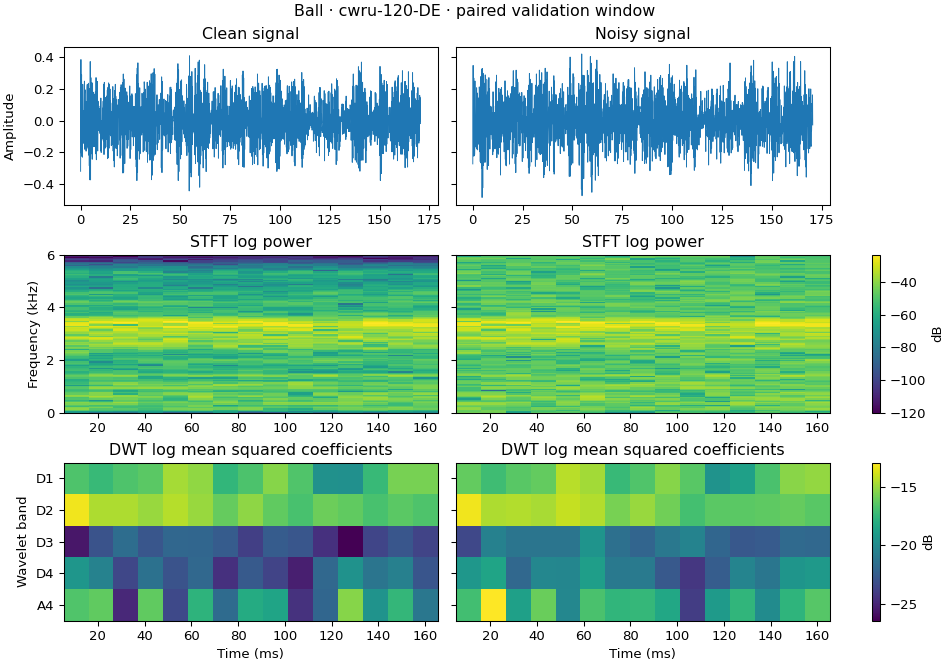
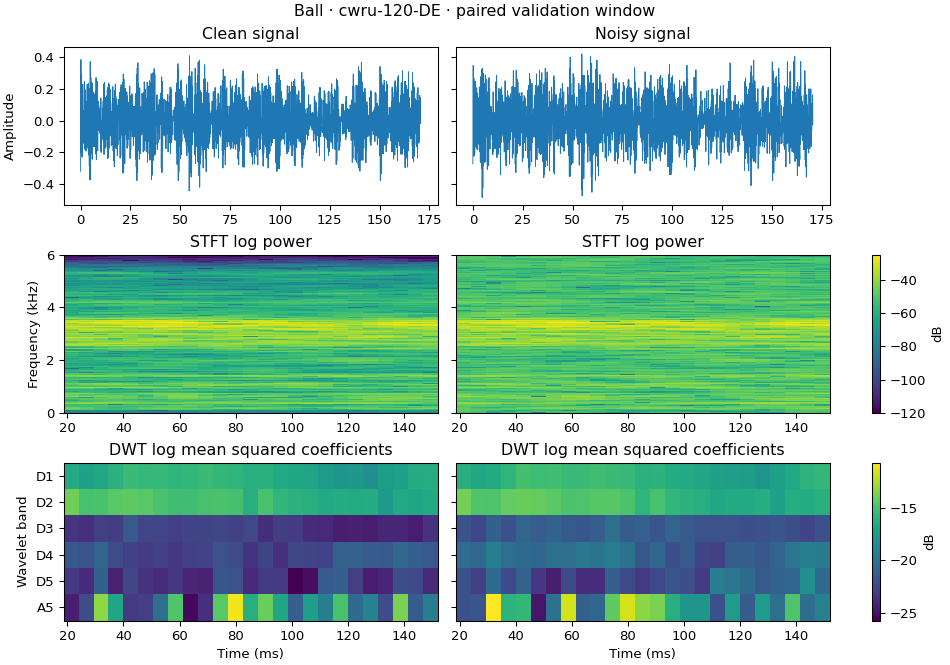
Increase STFT and DWT feature detail for the paired CNN dataset

diff --git a/tests/test_stft_dwt.py b/tests/test_stft_dwt.py
@@ -3,21 +3,30 @@ import unittest
 import numpy as np
 
 from src.stft_dwt import (
-    FRAME_SAMPLES, FREQUENCY_BINS, POWER_FLOOR, WINDOW_SAMPLES, extract_sequences,
+    FRAME_HOP, FRAME_SAMPLES, FREQUENCY_BINS, POWER_FLOOR, WINDOW_SAMPLES, extract_sequences,
 )
 
 
 class SequenceTests(unittest.TestCase):
     def test_stft_frequency_bin_and_time_axis(self):
-        bin_index = 32  # 1500 Hz at 12 kHz
+        bin_index = 64  # 1500 Hz at 12 kHz
         samples = np.arange(WINDOW_SAMPLES)
         signal = np.sin(2 * np.pi * bin_index * samples / FRAME_SAMPLES)
         features = extract_sequences(signal[None, :])
 
-        self.assertEqual(features.shape, (1, 15, 134))
+        self.assertEqual(features.shape, (1, 25, 263))
         stft = features[0, :, :FREQUENCY_BINS]
         np.testing.assert_array_equal(stft.argmax(axis=-1), bin_index)
         np.testing.assert_allclose(stft[:, bin_index], 10 * np.log10(0.25), atol=1e-5)
+
+    def test_stft_separates_two_nearby_tones(self):
+        samples = np.arange(WINDOW_SAMPLES)
+        signal = (np.sin(2 * np.pi * 64 * samples / FRAME_SAMPLES)
+                  + np.sin(2 * np.pi * 67 * samples / FRAME_SAMPLES))
+        spectrum = extract_sequences(signal[None, :])[0, 0, :FREQUENCY_BINS]
+        self.assertGreater(spectrum[64], spectrum[65])
+        self.assertGreater(spectrum[67], spectrum[66])
+        np.testing.assert_allclose(spectrum[[64, 67]], 10 * np.log10(0.25), atol=1e-5)
 
     def test_dwt_bands_and_stft_share_the_same_frame_support(self):
         signal = np.zeros((1, WINDOW_SAMPLES))
@@ -26,9 +35,9 @@ class SequenceTests(unittest.TestCase):
         floor_db = 10 * np.log10(POWER_FLOOR)
 
         self.assertAlmostEqual(features[0, 0], 0.0, places=5)
-        self.assertAlmostEqual(features[0, FREQUENCY_BINS], 10 * np.log10(16), places=5)
+        self.assertAlmostEqual(features[0, FREQUENCY_BINS], 10 * np.log10(32), places=5)
         np.testing.assert_allclose(features[0, FREQUENCY_BINS + 1:], floor_db)
-        np.testing.assert_allclose(features[2:], floor_db)
+        np.testing.assert_allclose(features[FRAME_SAMPLES // FRAME_HOP:], floor_db)
 
     def test_rejects_incorrect_window_size_and_nonfinite_samples(self):
         with self.assertRaises(ValueError):

diff --git a/src/feature_dataset.py b/src/feature_dataset.py
@@ -29,7 +29,11 @@ WINDOW_HOP = WINDOW_SAMPLES // 2
 FRAME_COUNT = 1 + (WINDOW_SAMPLES - FRAME_SAMPLES) // FRAME_HOP
 DEFAULT_SNR_DB = 10.0
 DEFAULT_NOISE_SEED = 42
-SCHEMA = "cwru-stft-dwt-paired-v1"
+SCHEMA = "cwru-stft-dwt-paired-v2"
+FEATURE_SHAPES = {
+    SCHEMA: (FRAME_COUNT, FREQUENCY_BINS, len(DWT_BANDS)),
+    "cwru-stft-dwt-paired-v1": (15, 129, 5),
+}
 
 
 def prepare_uploaded_cohort(raw_dir, output):
@@ -154,8 +158,10 @@ def load_partitions(dataset):
     if not metadata_path.is_file():
         raise FileNotFoundError(f"No complete dataset at {dataset}. Run python -m src.feature_dataset first.")
     metadata = json.loads(metadata_path.read_text())
-    if metadata.get("schema") != SCHEMA:
+    shape = FEATURE_SHAPES.get(metadata.get("schema"))
+    if shape is None:
         raise ValueError(f"Unsupported feature dataset format: {metadata_path}")
+    frame_count, stft_bins, dwt_bands = shape
 
     parts = {split: {variant: [] for variant in VARIANTS} for split in PARTITIONS}
     groups_seen, windows_seen = {}, set()
@@ -176,8 +182,8 @@ def load_partitions(dataset):
             path = folder / variant
             stft = read_array(path, "stft")
             dwt = read_array(path, "dwt")
-            if (stft.shape != (len(rows), FRAME_COUNT, FREQUENCY_BINS)
-                    or dwt.shape != (len(rows), FRAME_COUNT, len(DWT_BANDS))
+            if (stft.shape != (len(rows), frame_count, stft_bins)
+                    or dwt.shape != (len(rows), frame_count, dwt_bands)
                     or stft.dtype != np.float32 or dwt.dtype != np.float32
                     or not np.isfinite(stft).all() or not np.isfinite(dwt).all()):
                 raise ValueError(f"Invalid or misaligned feature arrays in {path}")

diff --git a/src/stft_dwt.py b/src/stft_dwt.py
@@ -7,21 +7,21 @@ from scipy.signal import stft
 
 SAMPLE_RATE = 12_000
 WINDOW_SAMPLES = 2048
-FRAME_SAMPLES = 256
-FRAME_HOP = 128
+FRAME_SAMPLES = 512
+FRAME_HOP = 64
 FREQUENCY_BINS = FRAME_SAMPLES // 2 + 1
 WAVELET = "db4"
-DWT_LEVEL = 4
+DWT_LEVEL = 5
 DWT_MODE = "symmetric"
-DWT_BANDS = ("A4", "D4", "D3", "D2", "D1")
+DWT_BANDS = ("A5", "D5", "D4", "D3", "D2", "D1")
 POWER_FLOOR = 1e-12
 
 
 def extract_sequences(windows):
-    """Return (windows, time frames, 129 STFT bins + 5 DWT bands).
+    """Return (windows, time frames, 257 STFT bins + 6 DWT bands).
 
     Input windows are mean-centered, amplitude-preserving samples at 12 kHz.
-    Each DWT uses the same 256 raw samples as its corresponding Hann STFT
+    Each DWT uses the same 512 raw samples as its corresponding Hann STFT
     frame. DWT bands contain mean squared coefficients, with no Hann taper.
     Both sets of powers are converted to dB relative to one squared unit.
     """

diff --git a/Datasets/Features/README.md b/Datasets/Features/README.md
@@ -17,10 +17,12 @@ Alternatively, extract the prepared archive into `Datasets` so that `Datasets/Fe
 | Path | Contents | Shape per class |
 | --- | --- | --- |
 | `Clean/signal.npz`, `Noisy/signal.npz` | Paired mean-centered vibration windows | `(windows, 2048)` |
-| `Clean/stft.npz`, `Noisy/stft.npz` | Hann STFT log-power spectrum on each frame | `(windows, 15, 129)` |
-| `Clean/dwt.npz`, `Noisy/dwt.npz` | Log mean squared db4 coefficients for A4, D4, D3, D2 and D1 | `(windows, 15, 5)` |
+| `Clean/stft.npz`, `Noisy/stft.npz` | Hann STFT log-power spectrum on each frame | `(windows, 25, 257)` |
+| `Clean/dwt.npz`, `Noisy/dwt.npz` | Log mean squared db4 coefficients for A5, D5, D4, D3, D2 and D1 | `(windows, 25, 6)` |
 | `index.csv` | Original record ID, group, partition and window start | One row per aligned clean/noisy pair |
 
-The NPZ array key is `values`. All arrays use the same row order within a class. The dataset uses 12 kHz windows and 256-sample transform frames with a 128-sample hop. The noise is white Gaussian with seed 42 and a target SNR of 10 dB per recording, measured across its windows. Noise is drawn once per recording, sliced at the same offsets as the clean windows, then mean-centered and scaled. Export another noise level with `--snr-db` and a separate `--output` directory.
+The NPZ array key is `values`. All arrays use the same row order within a class. The dataset uses 12 kHz windows and 512-sample transform frames (42.67 ms) with a 64-sample hop (5.33 ms). The noise is white Gaussian with seed 42 and a target SNR of 10 dB per recording, measured across its windows. Noise is drawn once per recording, sliced at the same offsets as the clean windows, then mean-centered and scaled. Export another noise level with `--snr-db` and a separate `--output` directory.
 
-The dataset uses all 40 uploaded CWRU recordings. Fault diameters are 0.007, 0.014 and 0.021 inch, and the uploaded outer-race recordings use the centered position. The export yields 4,643 clean/noisy pairs. The 2,291 training pairs come from 0 and 1 HP, the 1,174 validation pairs from 2 HP, and the 1,178 test pairs from 3 HP. Both members of each pair stay in the partition assigned to the original recording. The CNN concatenates STFT and DWT features along the channel axis, yielding 134 features per time frame. It trains on both variants and reports held-out clean and noisy performance separately.
+The dataset uses all 40 uploaded CWRU recordings. Fault diameters are 0.007, 0.014 and 0.021 inch, and the uploaded outer-race recordings use the centered position. The export yields 4,643 clean/noisy pairs. The 2,291 training pairs come from 0 and 1 HP, the 1,174 validation pairs from 2 HP, and the 1,178 test pairs from 3 HP. Both members of each pair stay in the partition assigned to the original recording. The CNN concatenates STFT and DWT features along the channel axis, yielding 263 features per time frame. It trains on both variants and reports held-out clean and noisy performance separately.
+
+The detailed export uses a 512-point Hann STFT and a five-level db4 DWT. The STFT bin spacing is 23.4375 Hz. The longer frame improves frequency discrimination and averages over a longer time interval. The 64-sample hop provides a denser time grid. The loader also accepts the previous v1 dataset. When both datasets are present, pass the detailed export directory to `--dataset`.
